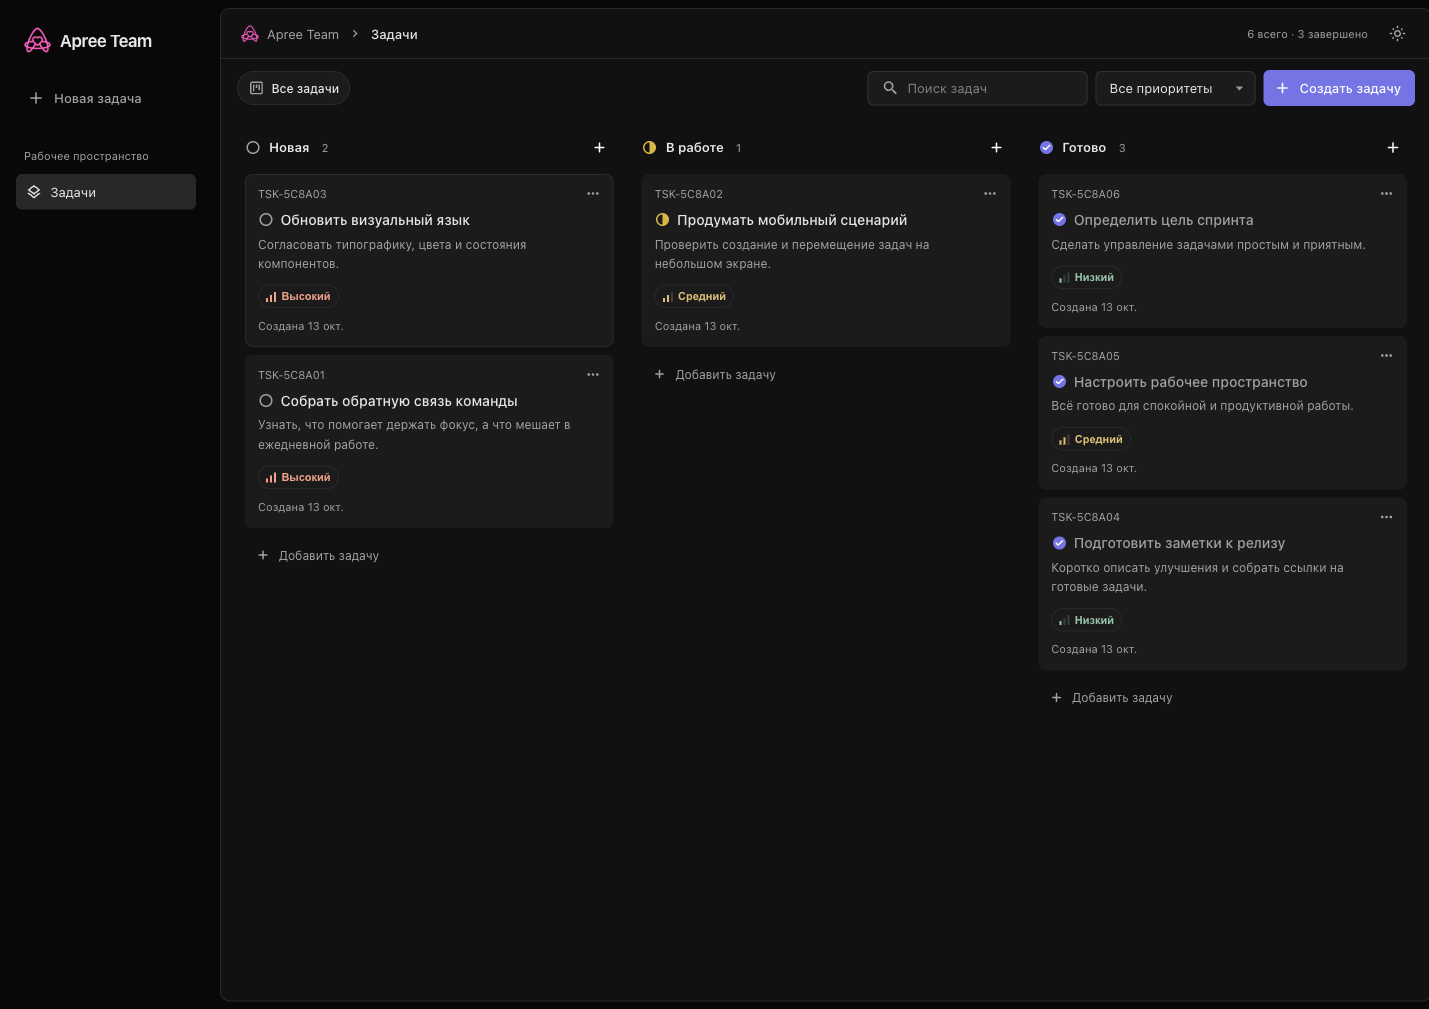
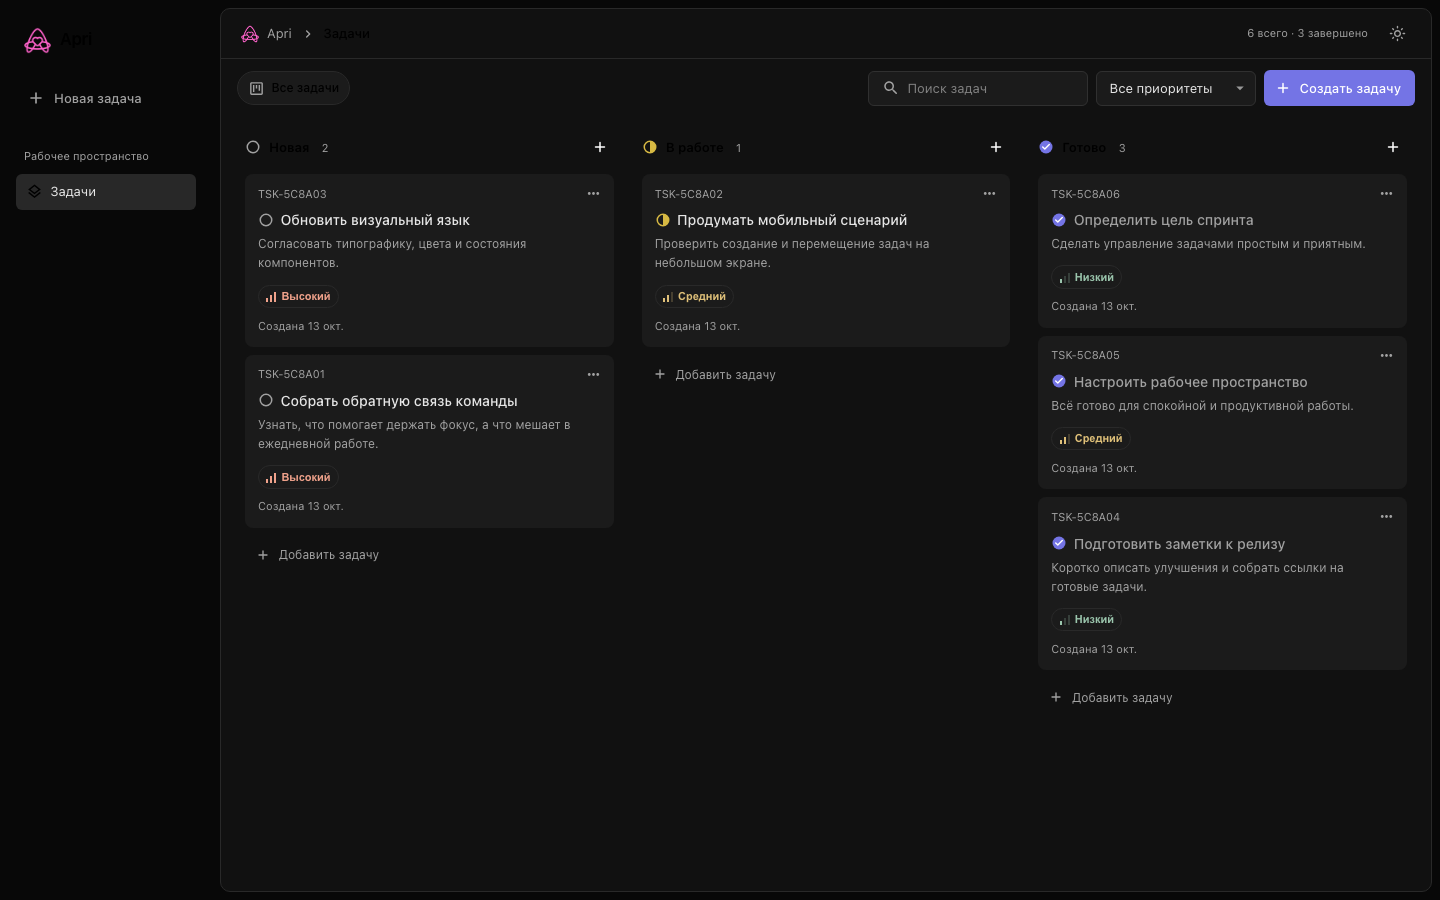
Keep workspace fixed with independent column scrolling and shorten brand to Apri

diff --git a/apps/web/src/App.tsx b/apps/web/src/App.tsx
@@ -106,7 +106,9 @@ export function App() {
         sx={{
           ml: { xs: 0, md: '220px' },
           m: { xs: 0, md: '8px 8px 8px 220px' },
-          minHeight: { xs: '100dvh', md: 'calc(100dvh - 16px)' },
+          height: { xs: '100dvh', md: 'calc(100dvh - 16px)' },
+          display: 'flex',
+          flexDirection: 'column',
           border: '1px solid',
           borderColor: 'divider',
           borderRadius: { xs: 0, md: '10px' },
@@ -115,7 +117,15 @@ export function App() {
         }}
       >
         <Header dark={mode === 'dark'} onTheme={toggleTheme} count={tasks.length} done={done} />
-        <Box sx={{ px: { xs: 1.5, md: 2 } }}>
+        <Box
+          sx={{
+            px: { xs: 1.5, md: 2 },
+            display: 'flex',
+            flexDirection: 'column',
+            flex: 1,
+            minHeight: 0,
+          }}
+        >
           <BoardToolbar
             search={search}
             priority={priority}
@@ -141,7 +151,7 @@ export function App() {
               value={mobileStatus}
               onChange={(_, value: Status) => setMobileStatus(value)}
               variant="fullWidth"
-              sx={{ mt: 2 }}
+              sx={{ mt: 2, flexShrink: 0 }}
             >
               {statuses.map((status) => (
                 <Tab
@@ -174,10 +184,13 @@ export function App() {
             <Box
               sx={{
                 display: 'grid',
+                flex: 1,
+                minHeight: 0,
+                gridTemplateRows: 'minmax(0, 1fr)',
                 gridTemplateColumns: mobile ? 'minmax(0, 1fr)' : 'repeat(3, minmax(0, 1fr))',
                 gap: 1.5,
                 pt: 0.5,
-                pb: 3,
+                pb: 1,
               }}
             >
               {statuses

diff --git a/apps/web/src/components/BoardColumn.tsx b/apps/web/src/components/BoardColumn.tsx
@@ -37,7 +37,9 @@ export function BoardColumn({
         p: 1,
         pt: 0.5,
         borderRadius: '8px',
-        minHeight: { xs: 300, md: 'calc(100vh - 145px)' },
+        minHeight: 0,
+        display: 'flex',
+        flexDirection: 'column',
         bgcolor: isOver ? 'action.selected' : 'transparent',
         outline: isOver ? '2px dashed' : '2px solid transparent',
         outlineColor: isOver ? 'primary.main' : 'transparent',
@@ -45,7 +47,7 @@ export function BoardColumn({
         minWidth: 0,
       }}
     >
-      <Box sx={{ display: 'flex', alignItems: 'center', gap: 0.75, py: 1, mb: 0.6 }}>
+      <Box sx={{ display: 'flex', alignItems: 'center', gap: 0.75, flexShrink: 0, py: 1, mb: 0.6 }}>
         <StatusIcon status={status.value} />
         <Typography sx={{ fontSize: 13, fontWeight: 600, ml: 0.25 }}>{status.label}</Typography>
         <Box
@@ -70,7 +72,18 @@ export function BoardColumn({
           </IconButton>
         </Tooltip>
       </Box>
-      <Box sx={{ display: 'flex', flexDirection: 'column', gap: 1 }}>
+      <Box
+        sx={{
+          display: 'flex',
+          flexDirection: 'column',
+          gap: 1,
+          flex: 1,
+          minHeight: 0,
+          overflowY: 'auto',
+          overscrollBehaviorY: 'contain',
+          '& > *': { flexShrink: 0 },
+        }}
+      >
         {loading
           ? [1, 2].map((id) => <Skeleton key={id} variant="rounded" height={140} />)
           : tasks.map((task) => (

diff --git a/apps/web/index.html b/apps/web/index.html
@@ -3,10 +3,10 @@
   <head>
     <meta charset="UTF-8" />
     <meta name="viewport" content="width=device-width, initial-scale=1.0" />
-    <meta name="theme-color" content="#ffffff" />
-    <meta name="description" content="Apree Team — канбан-доска для управления задачами." />
+    <meta name="theme-color" content="#080808" />
+    <meta name="description" content="Apri — канбан-доска для управления задачами." />
     <link rel="icon" type="image/png" href="/apree-logo.png" />
-    <title>Apree Team — управление задачами</title>
+    <title>Apri — управление задачами</title>
   </head>
   <body>
     <div id="root"></div>

diff --git a/apps/web/src/components/Header.tsx b/apps/web/src/components/Header.tsx
@@ -18,6 +18,7 @@ export function Header({
       component="header"
       sx={{
         height: 50,
+        flexShrink: 0,
         display: 'flex',
         alignItems: 'center',
         gap: 1,
@@ -32,7 +33,7 @@ export function Header({
         alt=""
         sx={{ width: 18, height: 18, objectFit: 'contain' }}
       />
-      <Typography sx={{ fontSize: 13, color: 'text.secondary' }}>Apree Team</Typography>
+      <Typography sx={{ fontSize: 13, color: 'text.secondary' }}>Apri</Typography>
       <ChevronRightRounded sx={{ fontSize: 16, color: 'text.secondary' }} />
       <Typography component="h1" sx={{ fontSize: 13, fontWeight: 500 }}>
         Задачи

diff --git a/apps/web/src/components/TaskDialog.tsx b/apps/web/src/components/TaskDialog.tsx
@@ -110,7 +110,7 @@ export function TaskDialog({ task, status, onClose, onSave, onDelete, pending }:
     >
       <Box component="form" onSubmit={submit} noValidate>
         <Box sx={{ px: { xs: 2, sm: 3 }, pt: 2, display: 'flex', alignItems: 'center', gap: 0.75 }}>
-          <Typography sx={{ fontSize: 12, fontWeight: 600 }}>Apree Team</Typography>
+          <Typography sx={{ fontSize: 12, fontWeight: 600 }}>Apri</Typography>
           <ChevronRightRounded sx={{ fontSize: 15, color: 'text.secondary' }} />
           <Typography sx={{ fontSize: 12, color: 'text.secondary' }}>
             {task ? 'TSK-' + task.id.slice(-6).toUpperCase() : 'Новая задача'}

diff --git a/apps/web/src/components/Brand.tsx b/apps/web/src/components/Brand.tsx
@@ -2,7 +2,7 @@ import { Box, Typography } from '@mui/material';
 
 export function Brand() {
   return (
-    <Box aria-label="Apree Team" sx={{ display: 'flex', alignItems: 'center', gap: 1.1 }}>
+    <Box aria-label="Apri" sx={{ display: 'flex', alignItems: 'center', gap: 1.1 }}>
       <Box
         component="img"
         src="/apree-logo.png"
@@ -13,7 +13,7 @@ export function Brand() {
         component="span"
         sx={{ fontSize: 17, fontWeight: 650, letterSpacing: '-.4px', whiteSpace: 'nowrap' }}
       >
-        Apree Team
+        Apri
       </Typography>
     </Box>
   );

diff --git a/apps/web/src/components/BoardToolbar.tsx b/apps/web/src/components/BoardToolbar.tsx
@@ -14,7 +14,16 @@ interface Props {
 
 export function BoardToolbar({ search, priority, onSearch, onPriority, onCreate }: Props) {
   return (
-    <Box sx={{ display: 'flex', alignItems: 'center', gap: 1, py: 1.4, flexWrap: 'wrap' }}>
+    <Box
+      sx={{
+        display: 'flex',
+        alignItems: 'center',
+        gap: 1,
+        py: 1.4,
+        flexWrap: 'wrap',
+        flexShrink: 0,
+      }}
+    >
       <Box
         sx={{
           display: { xs: 'none', md: 'flex' },

diff --git a/docs/architecture.md b/docs/architecture.md
@@ -59,4 +59,4 @@ API-тесты защищают валидацию и операции; frontend
 
 ## Визуальная система
 
-Визуальный ориентир — предоставленные пользователем скриншоты Linear: темная доска, компактные панели, четкая иерархия и центральное окно задачи. Это собственная реализация на Material UI, без использования библиотеки компонентов Linear. Apree Team использует знак из favicon официального портала Apree (источник указан в `apps/web/public/ASSET-SOURCES.txt`), общую тему MUI и переиспользуемые компоненты карточки, статуса и приоритета. В интерфейсе нет рекламного вводного блока и декоративных элементов без функции.
+Визуальный ориентир — предоставленные пользователем скриншоты Linear: темная доска, компактные панели, четкая иерархия и центральное окно задачи. Это собственная реализация на Material UI, без использования библиотеки компонентов Linear. Apri использует знак из favicon официального портала Apree (источник указан в `apps/web/public/ASSET-SOURCES.txt`), общую тему MUI и переиспользуемые компоненты карточки, статуса и приоритета. В интерфейсе нет рекламного вводного блока и декоративных элементов без функции.

diff --git a/README.md b/README.md
@@ -1,8 +1,8 @@
-# Apree Team
+# Apri
 
 Небольшая канбан-доска с настоящим API и PostgreSQL. Тестовое задание «Мини-задачник»: три статуса, полный цикл работы с задачами и внимание к поведению интерфейса.
 
-![Apree Team — доска задач](docs/screenshots/desktop.png)
+![Apri — доска задач](docs/screenshots/desktop.png)
 
 ## Возможности
 
@@ -78,4 +78,4 @@ docs/              Решения и использование AI
 
 ## Окно задачи
 
-![Apree Team — создание задачи](docs/screenshots/modal.png)
+![Apri — создание задачи](docs/screenshots/modal.png)
